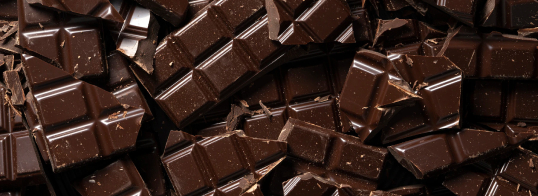
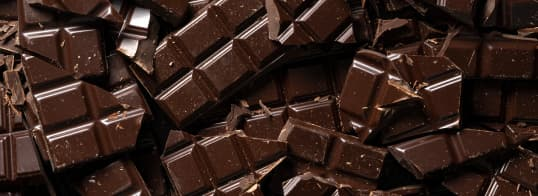
optim pic

diff --git a/src/css/modal-explore.css b/src/css/modal-explore.css
@@ -46,7 +46,7 @@
   width: 100%;
   height: 169px;
 
-  background-color: rgba(137, 197, 174, 0.5);
+  background-color: rgb(54, 18, 18);
   background-image: url(../img/modal-explore/mod-exp_mob.jpg);
 }
 
@@ -97,112 +97,50 @@
   background-color: var(--light-orange);
 }
 
-/* .modal-btn-close{
-      position: absolute;
-      top: 0;
-      right: 0;
-  
-      width: 28px;
-      height: 28px;
-  
-      padding: 0;
-      border: none;
-  
-      margin: 24px;
-  
-  
-  } */
-
 .modal-btn-icon {
   width: 24px;
   height: 24px;
 }
 
 .modal-explore-form {
+  position: relative;
   display: flex;
   flex-direction: column;
-  margin-top: 32px;
+  margin-top: 24px;
   gap: 14px;
 }
-.user {
-  width: 100%;
+
+
+.explore_user_email {
   padding: 14px 18px;
 
-  border: 1.5px solid rgba(17, 17, 17, 0.05);
-  filter: drop-shadow(0px 5.44492px 5.44492px rgba(0, 0, 0, 0.03));
-  border-radius: 13px;
-  align-self: stretch;
+line-height: 1.12;
+letter-spacing: -0.02em;
+
+color: rgba(64, 64, 64, 0.3);
+
+border: 1.5px solid rgba(17, 17, 17, 0.05);
+border-radius: 25px;
 }
 
 .user:focus {
   outline: 1px solid var(--orange);
 }
 
-.modal-btn-icon .user::placeholder {
-  font-size: 13px;
-  line-height: 1.21;
 
-  align-items: center;
-  letter-spacing: -0.02em;
-
-  color: rgba(64, 64, 64, 0.3);
-}
-
-.modal-tel-wrap {
-  position: relative;
-}
-.modal-explore-tel-icon {
-  position: absolute;
-  display: block;
-  z-index: 1;
-  width: 24px;
-  height: 24px;
-  top: 50%;
-  left: 18px;
-  transform: translatey(-50%);
-  cursor: text;
-  pointer-events: none;
-}
-
-.modal-explore-tel-code {
-  position: absolute;
-  z-index: 1;
-  display: inline-block;
-  top: 50%;
-  left: 50px;
-  transform: translatey(-50%);
-
-  font-weight: 500;
-  font-size: 14px;
-  line-height: 1.21;
-  letter-spacing: -0.02em;
-
-  pointer-events: none;
-}
-
-.modal-tel-icon::after {
-  position: absolute;
-  content: '';
-  display: inline-block;
-  margin-left: 20px;
-  width: 1.5px;
-  height: 100%;
-  background-color: rgba(17, 17, 17, 0.05);
-}
-
-.user-tel {
-  padding-left: 106px;
-}
-
-.user_comment {
-  height: 91px;
-  resize: none;
-}
 .modal-explore-btn {
-  padding: 12px 28px;
-  margin-top: 24px;
+  position: absolute;
+  top: 0;
+  right: 0;
+ 
 
+padding: 14px 22px;
+min-width: 100px;
   outline: none;
+
+  font-weight: 600;
+
+line-height: 1.2;
 }
 
 .modal-explore-btn:focus {

diff --git a/src/partials/modal-explore.html b/src/partials/modal-explore.html
@@ -16,8 +16,13 @@
         </button>
 
         <!-- modal form -->
+        <form class="modal-explore-form">
+            <label id="user_email" class="visually-hidden">mail</label>
+            <input type="email" class="explore_user_email" placeholder="Enter your email" required>
+
+           <button type="submit" class="btn-primary modal-explore-btn">Send</button>
+ 
+        </form>
+
         
-
-        <button type="submit" class="btn-primary modal-explore-btn">Send</button>
-
     </div>
